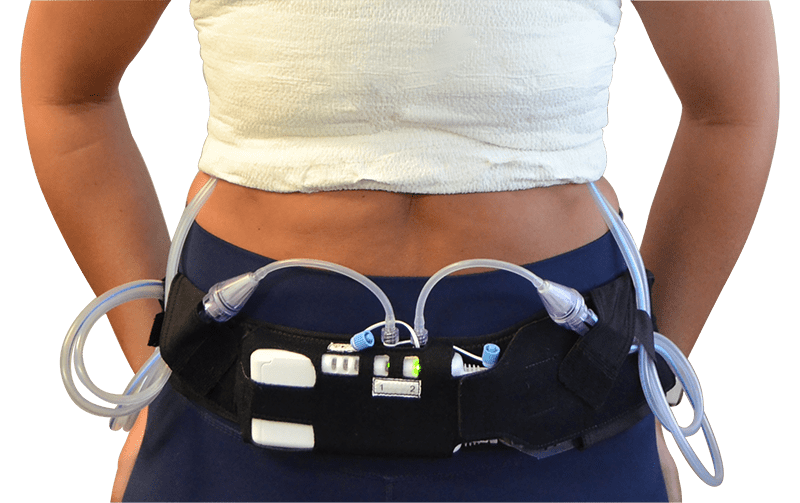
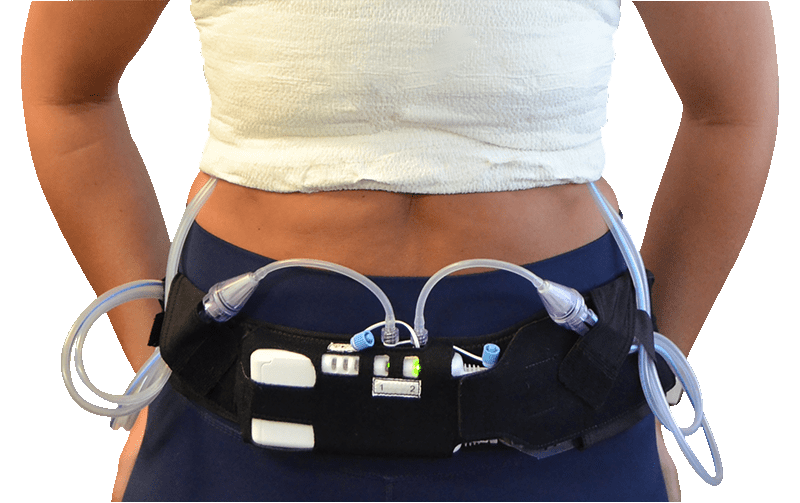
Physicians hero: float the model cutout on the gradient
The white card was hiding a matting fringe left over from cutting the
subject off a white background, and it boxed in a photo that reads
better unframed.

- De-fringe somavac-model.png: erode the alpha edge by 1px and fade the
  remaining near-white edge pixels. 1px keeps the drain tubing intact,
  where a wider erosion breaks it up.
- Drop the white card so the cutout sits on the gradient with the glow
  and orbit rings behind it, about 40% larger than before.
- Fade the top and bottom edges into the background so the cropped
  torso and thighs do not end on a hard line, and add a low coral
  ground glow under the figure.
- Move the accent dot off the pump.
- Remove the shimmer bar and its keyframes, which only existed as the
  card's bottom edge.

diff --git a/physicians.html b/physicians.html
@@ -104,10 +104,6 @@
       50% { transform: scale(1.05); opacity: 0.2; }
       100% { transform: scale(0.95); opacity: 0.6; }
     }
-    @keyframes shimmer {
-      0% { background-position: -200% 0; }
-      100% { background-position: 200% 0; }
-    }
     @keyframes dot-pulse {
       0%, 100% { transform: scale(1); opacity: 0.8; }
       50% { transform: scale(1.4); opacity: 1; }
@@ -159,16 +155,22 @@
       pointer-events: none;
       z-index: 0;
     }
-    .product-showcase .shimmer-bar {
+    /* Hero cutout: the photo is cropped on every side, so fade the top and
+       bottom edges into the gradient instead of ending on a hard cut. */
+    .product-showcase .hero-cutout {
+      -webkit-mask-image: linear-gradient(to bottom, transparent 0%, #000 6%, #000 88%, transparent 100%);
+      mask-image: linear-gradient(to bottom, transparent 0%, #000 6%, #000 88%, transparent 100%);
+    }
+    .product-showcase .cutout-ground {
       position: absolute;
-      bottom: 0;
-      left: 0;
-      right: 0;
-      height: 3px;
-      background: linear-gradient(90deg, transparent, rgba(234,83,41,0.6), transparent);
-      background-size: 200% 100%;
-      animation: shimmer 3s ease-in-out infinite;
-      border-radius: 2px;
+      left: 10%;
+      right: 10%;
+      bottom: 4%;
+      height: 40px;
+      background: radial-gradient(ellipse at center, rgba(234,83,41,0.30) 0%, rgba(234,83,41,0.10) 45%, transparent 72%);
+      filter: blur(10px);
+      pointer-events: none;
+      z-index: 1;
     }
     .product-showcase .feature-dot {
       position: absolute;
@@ -284,13 +286,11 @@
             <div class="glow-base"></div>
             <div class="orbit-ring orbit-ring-1"></div>
             <div class="orbit-ring orbit-ring-2"></div>
-            <div class="relative z-10 bg-white rounded-3xl p-6 border border-white/20 shadow-2xl">
-              <img src="/brand_assets/somavac-model.png" alt="Patient wearing the SOMAVAC&reg; pump on the support belt, with both drains connected" class="w-full h-auto relative z-10 drop-shadow-2xl">
-              <div class="shimmer-bar"></div>
-            </div>
+            <div class="cutout-ground"></div>
+            <img src="/brand_assets/somavac-model.png" alt="Patient wearing the SOMAVAC&reg; pump on the support belt, with both drains connected" class="hero-cutout w-full h-auto relative z-10">
             <div class="feature-dot" style="top: 30%; left: -5px; animation-delay: 0s;"></div>
             <div class="feature-dot" style="top: 50%; right: -5px; animation-delay: 0.8s;"></div>
-            <div class="feature-dot" style="bottom: 25%; left: 20%; animation-delay: 1.6s;"></div>
+            <div class="feature-dot" style="bottom: 8%; left: 6%; animation-delay: 1.6s;"></div>
           </div>
         </div>
       </div>
